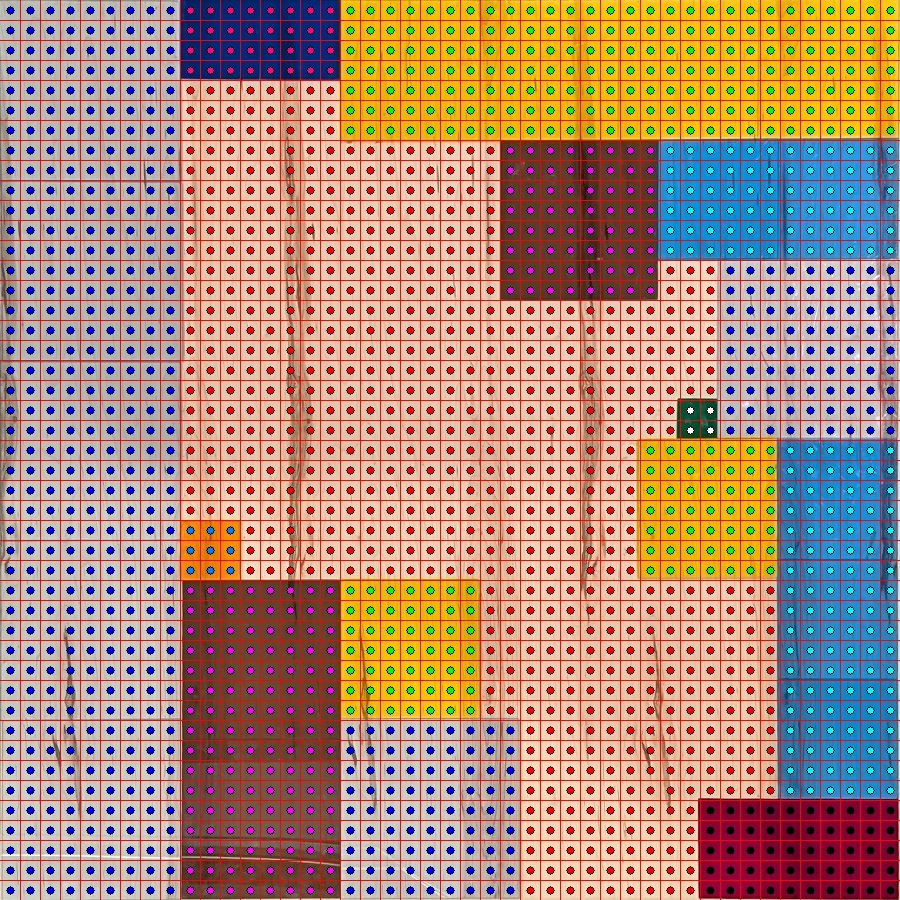
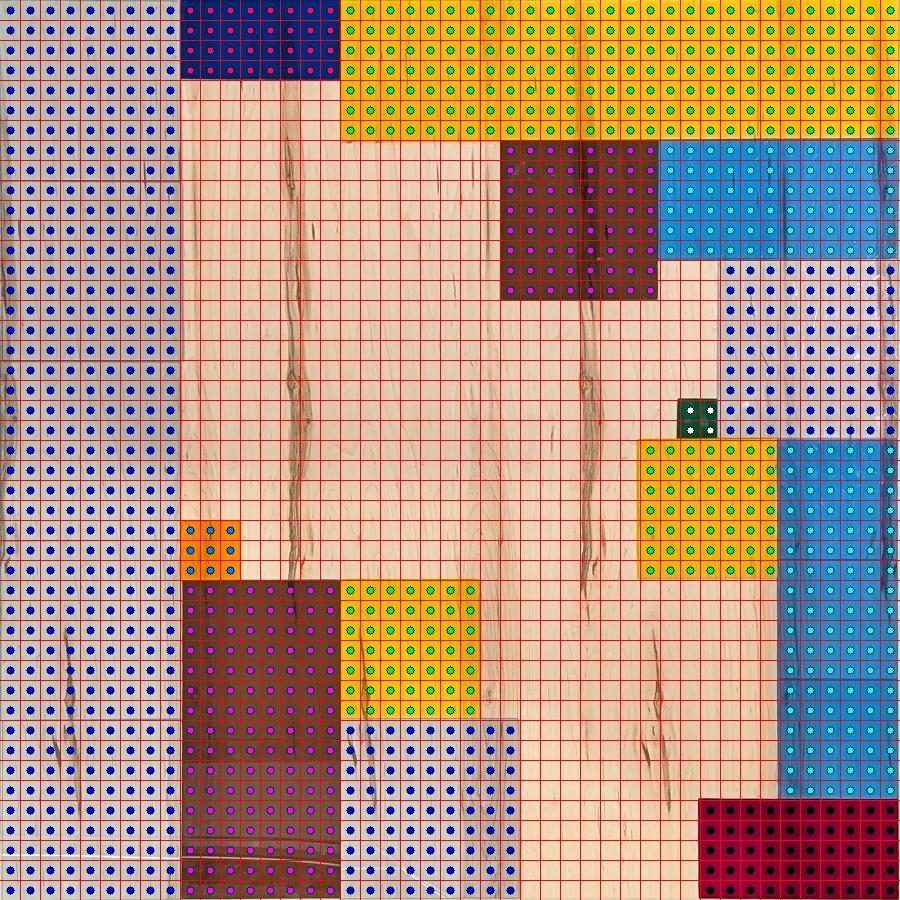
Dont draw small circles on background

Changed region(s): [[0.1867, 0.0933, 0.8711, 0.9956]]

diff --git a/to_json.py b/to_json.py
@@ -144,25 +144,28 @@ def create_small_squares_visualization(img, labels_slice, cluster_colors, filena
     for r in range(45):
         for c in range(45):
             label = labels_slice[r * 45 + c]
-            if label in cluster_colors:
-                # Calculate cell boundaries
-                y0 = r * cell
-                x0 = c * cell
+            # Skip drawing circles on background cells
+            if label == bg_label or label not in cluster_colors:
+                continue
                 
-                # Calculate mini-circle radius (smaller than the previous squares)
-                mini_radius = int(cell * 0.2)  # 40% diameter (20% radius) of cell size
-                
-                # Calculate mini-circle center position
-                center_y = y0 + cell // 2
-                center_x = x0 + cell // 2
-                
-                # Draw solid colored mini-circle
-                cv2.circle(viz, (center_x, center_y), mini_radius,
-                          cluster_colors[label], -1)
-                
-                # Add black border around mini-circle for visibility
-                cv2.circle(viz, (center_x, center_y), mini_radius,
-                          (0, 0, 0), 1)
+            # Calculate cell boundaries
+            y0 = r * cell
+            x0 = c * cell
+            
+            # Calculate mini-circle radius (smaller than the previous squares)
+            mini_radius = int(cell * 0.2)  # 40% diameter (20% radius) of cell size
+            
+            # Calculate mini-circle center position
+            center_y = y0 + cell // 2
+            center_x = x0 + cell // 2
+            
+            # Draw solid colored mini-circle
+            cv2.circle(viz, (center_x, center_y), mini_radius,
+                      cluster_colors[label], -1)
+            
+            # Add black border around mini-circle for visibility
+            cv2.circle(viz, (center_x, center_y), mini_radius,
+                      (0, 0, 0), 1)
     
     # Save the visualization
     output_path = os.path.join("images/small-squares", filename)
